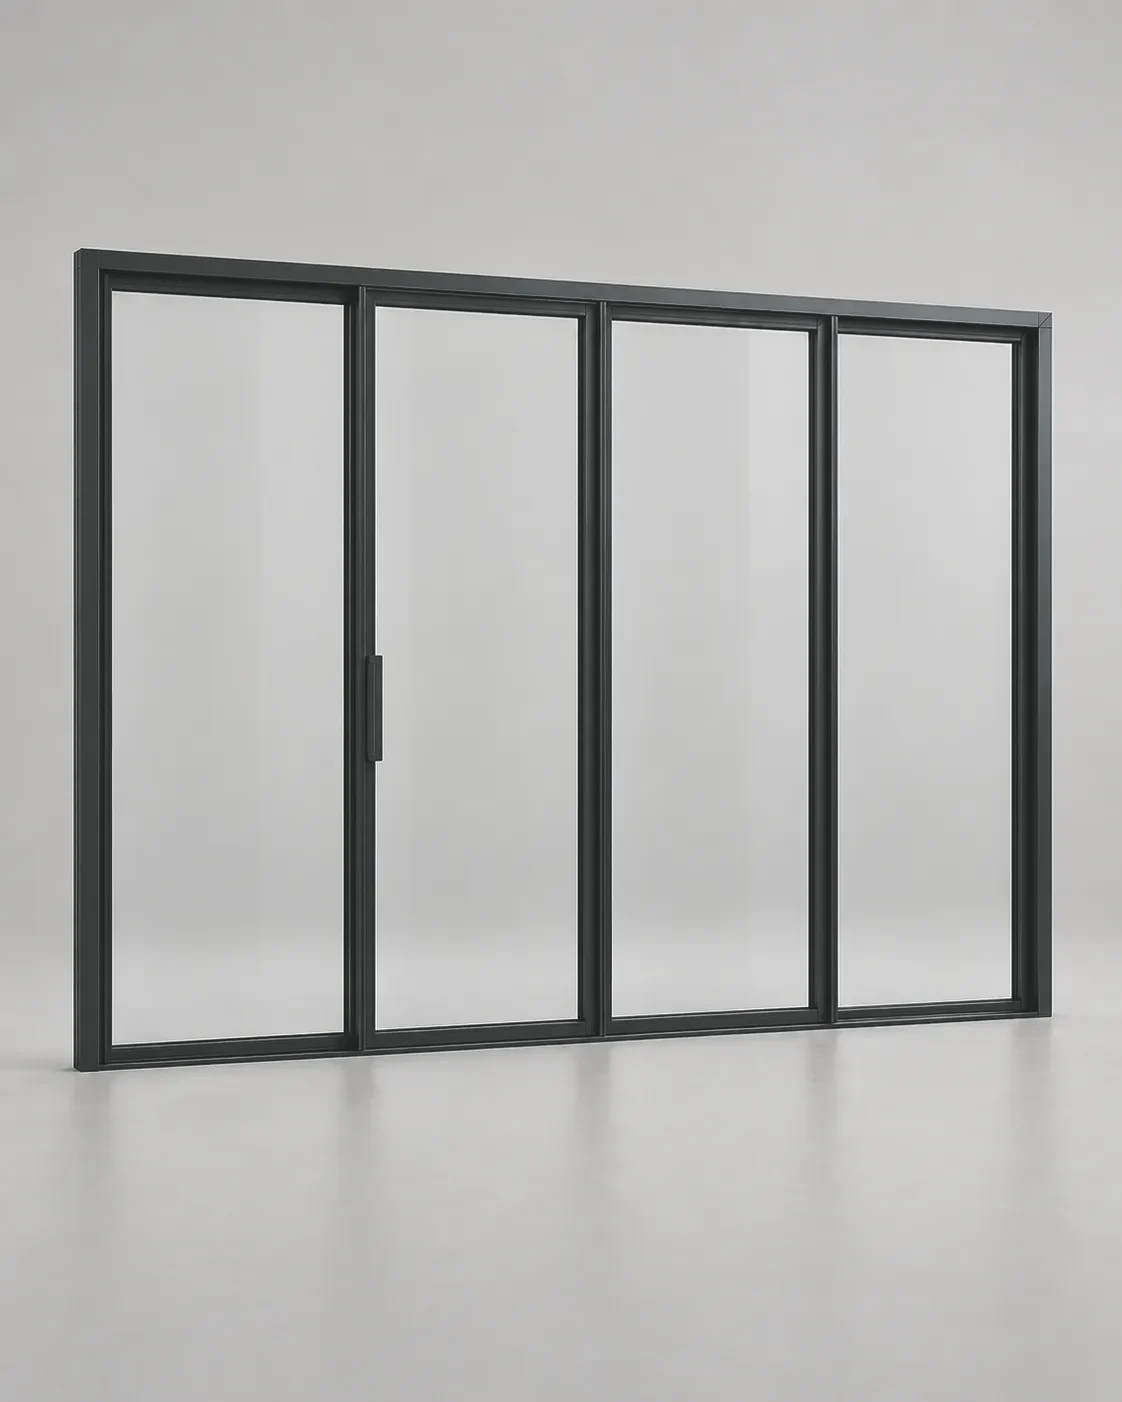
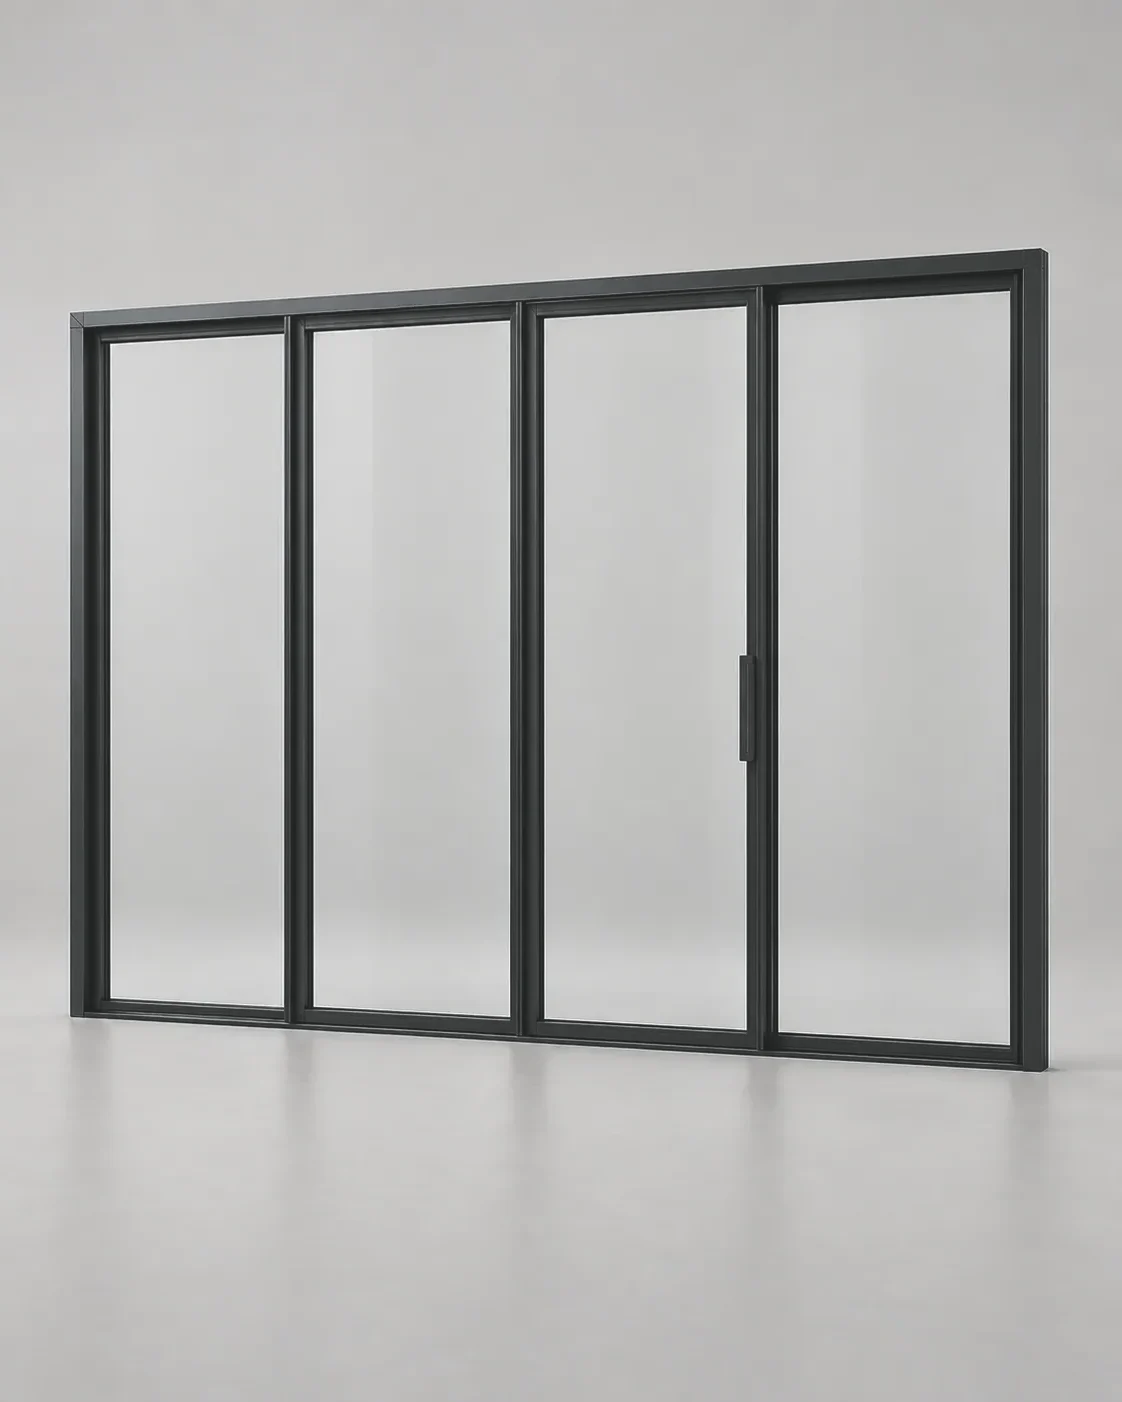
Fix FS / 36 photos: handle side per scheme, drop mismatched open view
- Закрытый рендер FS / 36 — схема 431-R (ручка на стыке 1-й и 2-й створки
  слева), 431-L получается отражением; раньше было наоборот
- Открытый рендер складывает все створки влево без отдельной проходной и не
  соответствует ни одной схеме 3 + 1 — открытый вид для FS / 36 снят
- recolor-photos.mjs: render.open необязателен, старые файлы модели удаляются

Claude-Session: https://claude.ai/code/session_01Gn8VhCyfsZCGjGBhD9Jp6s

Changed region(s): [[0.0312, 0.1534, 0.967, 0.7974]]

diff --git a/catalog/index.html b/catalog/index.html
@@ -131,10 +131,9 @@
         </div>
       </article>
 
-      <article class="m-card m-card--soon" data-card data-variants="[{&quot;sku&quot;:&quot;STD-FS4-S70-3600X2300-7016-431-L&quot;,&quot;c&quot;:&quot;antratsit&quot;,&quot;s&quot;:&quot;tri-vlevo-odna-vpravo&quot;,&quot;href&quot;:&quot;../catalog/fs-portaly/alumark-s70-3600x2300-antratsit-tri-vlevo-odna-vpravo/&quot;,&quot;img&quot;:&quot;../assets/images/products/fs4/antratsit-tri-vlevo-odna-vpravo.webp&quot;,&quot;open&quot;:&quot;../assets/images/products/fs4/antratsit-tri-vlevo-odna-vpravo-open.webp&quot;},{&quot;sku&quot;:&quot;STD-FS4-S70-3600X2300-7016-431-R&quot;,&quot;c&quot;:&quot;antratsit&quot;,&quot;s&quot;:&quot;odna-vlevo-tri-vpravo&quot;,&quot;href&quot;:&quot;../catalog/fs-portaly/alumark-s70-3600x2300-antratsit-odna-vlevo-tri-vpravo/&quot;,&quot;img&quot;:&quot;../assets/images/products/fs4/antratsit-odna-vlevo-tri-vpravo.webp&quot;,&quot;open&quot;:&quot;../assets/images/products/fs4/antratsit-odna-vlevo-tri-vpravo-open.webp&quot;},{&quot;sku&quot;:&quot;STD-FS4-S70-3600X2300-9005-431-L&quot;,&quot;c&quot;:&quot;chernyi&quot;,&quot;s&quot;:&quot;tri-vlevo-odna-vpravo&quot;,&quot;href&quot;:&quot;../catalog/fs-portaly/alumark-s70-3600x2300-chernyi-tri-vlevo-odna-vpravo/&quot;,&quot;img&quot;:&quot;../assets/images/products/fs4/chernyi-tri-vlevo-odna-vpravo.webp&quot;,&quot;open&quot;:&quot;../assets/images/products/fs4/chernyi-tri-vlevo-odna-vpravo-open.webp&quot;},{&quot;sku&quot;:&quot;STD-FS4-S70-3600X2300-9005-431-R&quot;,&quot;c&quot;:&quot;chernyi&quot;,&quot;s&quot;:&quot;odna-vlevo-tri-vpravo&quot;,&quot;href&quot;:&quot;../catalog/fs-portaly/alumark-s70-3600x2300-chernyi-odna-vlevo-tri-vpravo/&quot;,&quot;img&quot;:&quot;../assets/images/products/fs4/chernyi-odna-vlevo-tri-vpravo.webp&quot;,&quot;open&quot;:&quot;../assets/images/products/fs4/chernyi-odna-vlevo-tri-vpravo-open.webp&quot;}]">
+      <article class="m-card m-card--soon" data-card data-variants="[{&quot;sku&quot;:&quot;STD-FS4-S70-3600X2300-7016-431-L&quot;,&quot;c&quot;:&quot;antratsit&quot;,&quot;s&quot;:&quot;tri-vlevo-odna-vpravo&quot;,&quot;href&quot;:&quot;../catalog/fs-portaly/alumark-s70-3600x2300-antratsit-tri-vlevo-odna-vpravo/&quot;,&quot;img&quot;:&quot;../assets/images/products/fs4/antratsit-tri-vlevo-odna-vpravo.webp&quot;,&quot;open&quot;:&quot;&quot;},{&quot;sku&quot;:&quot;STD-FS4-S70-3600X2300-7016-431-R&quot;,&quot;c&quot;:&quot;antratsit&quot;,&quot;s&quot;:&quot;odna-vlevo-tri-vpravo&quot;,&quot;href&quot;:&quot;../catalog/fs-portaly/alumark-s70-3600x2300-antratsit-odna-vlevo-tri-vpravo/&quot;,&quot;img&quot;:&quot;../assets/images/products/fs4/antratsit-odna-vlevo-tri-vpravo.webp&quot;,&quot;open&quot;:&quot;&quot;},{&quot;sku&quot;:&quot;STD-FS4-S70-3600X2300-9005-431-L&quot;,&quot;c&quot;:&quot;chernyi&quot;,&quot;s&quot;:&quot;tri-vlevo-odna-vpravo&quot;,&quot;href&quot;:&quot;../catalog/fs-portaly/alumark-s70-3600x2300-chernyi-tri-vlevo-odna-vpravo/&quot;,&quot;img&quot;:&quot;../assets/images/products/fs4/chernyi-tri-vlevo-odna-vpravo.webp&quot;,&quot;open&quot;:&quot;&quot;},{&quot;sku&quot;:&quot;STD-FS4-S70-3600X2300-9005-431-R&quot;,&quot;c&quot;:&quot;chernyi&quot;,&quot;s&quot;:&quot;odna-vlevo-tri-vpravo&quot;,&quot;href&quot;:&quot;../catalog/fs-portaly/alumark-s70-3600x2300-chernyi-odna-vlevo-tri-vpravo/&quot;,&quot;img&quot;:&quot;../assets/images/products/fs4/chernyi-odna-vlevo-tri-vpravo.webp&quot;,&quot;open&quot;:&quot;&quot;}]">
         <a class="m-card__media" href="../catalog/fs-portaly/alumark-s70-3600x2300-antratsit-tri-vlevo-odna-vpravo/" data-card-link>
           <img src="../assets/images/products/fs4/antratsit-tri-vlevo-odna-vpravo.webp" alt="FS / 36 Схема 3 + 1, 3600 × 2300 мм" loading="lazy" decoding="async" data-card-img>
-          <img class="m-card__open" src="../assets/images/products/fs4/antratsit-tri-vlevo-odna-vpravo-open.webp" alt="" loading="lazy" decoding="async" data-card-img-open>
           <span class="m-card__badge">Скоро в продаже</span>
           <span class="m-card__scheme" aria-hidden="true"><span data-scheme-svg="tri-vlevo-odna-vpravo"><svg viewBox="0 0 100 52"><rect x="2" y="2" width="96" height="48"/><path d="M14 9l14 17-14 17M28 9l14 17-14 17M42 9l14 17-14 17"/><line x1="75" y1="4" x2="75" y2="48"/></svg></span><span data-scheme-svg="odna-vlevo-tri-vpravo" hidden><svg viewBox="0 0 100 52"><rect x="2" y="2" width="96" height="48"/><g transform="translate(100 0) scale(-1 1)"><path d="M14 9l14 17-14 17M28 9l14 17-14 17M42 9l14 17-14 17"/><line x1="75" y1="4" x2="75" y2="48"/></g></svg></span></span>
         </a>

diff --git a/catalog/fs-portaly/alumark-s70-3600x2300-antratsit-odna-vlevo-tri-vpravo/index.html b/catalog/fs-portaly/alumark-s70-3600x2300-antratsit-odna-vlevo-tri-vpravo/index.html
@@ -29,10 +29,8 @@
 <nav class="p-wrap p-crumbs" aria-label="Хлебные крошки"><a href="../../../">Главная</a><span>/</span><a href="../../../catalog/">Каталог</a><span>/</span><a href="../../../systems/fs/">FS</a><span>/</span>FS / 36</nav>
 <section class="product-hero">
   <div class="product-hero__grid">
-    <div class="product-media" data-media-toggle data-reveal>
+    <div class="product-media" data-reveal>
       <img src="../../../assets/images/products/fs4/antratsit-odna-vlevo-tri-vpravo.webp" alt="FS / 36 — 3600 × 2300 мм, Антрацит, закрыто" fetchpriority="high">
-      <img class="product-media__open" src="../../../assets/images/products/fs4/antratsit-odna-vlevo-tri-vpravo-open.webp" alt="FS / 36 — 3600 × 2300 мм, Антрацит, открыто" loading="lazy">
-      <div class="product-media__states" role="group" aria-label="Вид конструкции"><button type="button" class="is-active" aria-pressed="true" data-media-state="closed">Закрыто</button><button type="button" aria-pressed="false" data-media-state="open">Открыто</button></div>
       <span class="product-media__label">431-R · Антрацит RAL 7016</span>
       <span class="product-media__scheme" aria-hidden="true"><svg viewBox="0 0 100 52"><rect x="2" y="2" width="96" height="48"/><g transform="translate(100 0) scale(-1 1)"><path d="M14 9l14 17-14 17M28 9l14 17-14 17M42 9l14 17-14 17"/><line x1="75" y1="4" x2="75" y2="48"/></g></svg></span>
     </div>

diff --git a/catalog/fs-portaly/alumark-s70-3600x2300-chernyi-odna-vlevo-tri-vpravo/index.html b/catalog/fs-portaly/alumark-s70-3600x2300-chernyi-odna-vlevo-tri-vpravo/index.html
@@ -29,10 +29,8 @@
 <nav class="p-wrap p-crumbs" aria-label="Хлебные крошки"><a href="../../../">Главная</a><span>/</span><a href="../../../catalog/">Каталог</a><span>/</span><a href="../../../systems/fs/">FS</a><span>/</span>FS / 36</nav>
 <section class="product-hero">
   <div class="product-hero__grid">
-    <div class="product-media" data-media-toggle data-reveal>
+    <div class="product-media" data-reveal>
       <img src="../../../assets/images/products/fs4/chernyi-odna-vlevo-tri-vpravo.webp" alt="FS / 36 — 3600 × 2300 мм, Чёрный, закрыто" fetchpriority="high">
-      <img class="product-media__open" src="../../../assets/images/products/fs4/chernyi-odna-vlevo-tri-vpravo-open.webp" alt="FS / 36 — 3600 × 2300 мм, Чёрный, открыто" loading="lazy">
-      <div class="product-media__states" role="group" aria-label="Вид конструкции"><button type="button" class="is-active" aria-pressed="true" data-media-state="closed">Закрыто</button><button type="button" aria-pressed="false" data-media-state="open">Открыто</button></div>
       <span class="product-media__label">431-R · Чёрный RAL 9005</span>
       <span class="product-media__scheme" aria-hidden="true"><svg viewBox="0 0 100 52"><rect x="2" y="2" width="96" height="48"/><g transform="translate(100 0) scale(-1 1)"><path d="M14 9l14 17-14 17M28 9l14 17-14 17M42 9l14 17-14 17"/><line x1="75" y1="4" x2="75" y2="48"/></g></svg></span>
     </div>

diff --git a/catalog/fs-portaly/alumark-s70-3600x2300-antratsit-tri-vlevo-odna-vpravo/index.html b/catalog/fs-portaly/alumark-s70-3600x2300-antratsit-tri-vlevo-odna-vpravo/index.html
@@ -29,10 +29,8 @@
 <nav class="p-wrap p-crumbs" aria-label="Хлебные крошки"><a href="../../../">Главная</a><span>/</span><a href="../../../catalog/">Каталог</a><span>/</span><a href="../../../systems/fs/">FS</a><span>/</span>FS / 36</nav>
 <section class="product-hero">
   <div class="product-hero__grid">
-    <div class="product-media" data-media-toggle data-reveal>
+    <div class="product-media" data-reveal>
       <img src="../../../assets/images/products/fs4/antratsit-tri-vlevo-odna-vpravo.webp" alt="FS / 36 — 3600 × 2300 мм, Антрацит, закрыто" fetchpriority="high">
-      <img class="product-media__open" src="../../../assets/images/products/fs4/antratsit-tri-vlevo-odna-vpravo-open.webp" alt="FS / 36 — 3600 × 2300 мм, Антрацит, открыто" loading="lazy">
-      <div class="product-media__states" role="group" aria-label="Вид конструкции"><button type="button" class="is-active" aria-pressed="true" data-media-state="closed">Закрыто</button><button type="button" aria-pressed="false" data-media-state="open">Открыто</button></div>
       <span class="product-media__label">431-L · Антрацит RAL 7016</span>
       <span class="product-media__scheme" aria-hidden="true"><svg viewBox="0 0 100 52"><rect x="2" y="2" width="96" height="48"/><path d="M14 9l14 17-14 17M28 9l14 17-14 17M42 9l14 17-14 17"/><line x1="75" y1="4" x2="75" y2="48"/></svg></span>
     </div>

diff --git a/catalog/fs-portaly/alumark-s70-3600x2300-chernyi-tri-vlevo-odna-vpravo/index.html b/catalog/fs-portaly/alumark-s70-3600x2300-chernyi-tri-vlevo-odna-vpravo/index.html
@@ -29,10 +29,8 @@
 <nav class="p-wrap p-crumbs" aria-label="Хлебные крошки"><a href="../../../">Главная</a><span>/</span><a href="../../../catalog/">Каталог</a><span>/</span><a href="../../../systems/fs/">FS</a><span>/</span>FS / 36</nav>
 <section class="product-hero">
   <div class="product-hero__grid">
-    <div class="product-media" data-media-toggle data-reveal>
+    <div class="product-media" data-reveal>
       <img src="../../../assets/images/products/fs4/chernyi-tri-vlevo-odna-vpravo.webp" alt="FS / 36 — 3600 × 2300 мм, Чёрный, закрыто" fetchpriority="high">
-      <img class="product-media__open" src="../../../assets/images/products/fs4/chernyi-tri-vlevo-odna-vpravo-open.webp" alt="FS / 36 — 3600 × 2300 мм, Чёрный, открыто" loading="lazy">
-      <div class="product-media__states" role="group" aria-label="Вид конструкции"><button type="button" class="is-active" aria-pressed="true" data-media-state="closed">Закрыто</button><button type="button" aria-pressed="false" data-media-state="open">Открыто</button></div>
       <span class="product-media__label">431-L · Чёрный RAL 9005</span>
       <span class="product-media__scheme" aria-hidden="true"><svg viewBox="0 0 100 52"><rect x="2" y="2" width="96" height="48"/><path d="M14 9l14 17-14 17M28 9l14 17-14 17M42 9l14 17-14 17"/><line x1="75" y1="4" x2="75" y2="48"/></svg></span>
     </div>

diff --git a/CLAUDE.md b/CLAUDE.md
@@ -122,8 +122,10 @@ node tools/build.mjs --check  # ничего не пишет; код 1, если
 `products.json`: закрытый и открытый кадр и схема на нём): перекрашивает раму в RAL каждого цвета, зеркальные
 схемы отражает. Потом `node tools/build.mjs`. Нет фото варианта — стоит общее фото модели (`image`);
 список недостающих генератор печатает сам. На странице товара — переключатель «Закрыто / Открыто»,
-в карточке открытый вид показывается при наведении. Рендеры есть у HS / 30 и FS / 36; для остальных моделей
-нужен рендер (закрыто + открыто, один ракурс, любой цвет) — добавить в `render` и перезапустить скрипт.
+в карточке открытый вид показывается при наведении. Рендеры есть у HS / 30 (закрыто + открыто) и FS / 36
+(только закрыто: открытый кадр складывает все створки влево и не соответствует схеме 3 + 1). Для остальных моделей
+и для открытого FS / 36 нужен рендер (один ракурс, любой цвет) — добавить в `render` и перезапустить скрипт.
+Проверяй схему по кадру: где ручка и куда складывается пакет — открытый кадр должен совпадать со схемой SKU.
 
 ## Проверка
 
